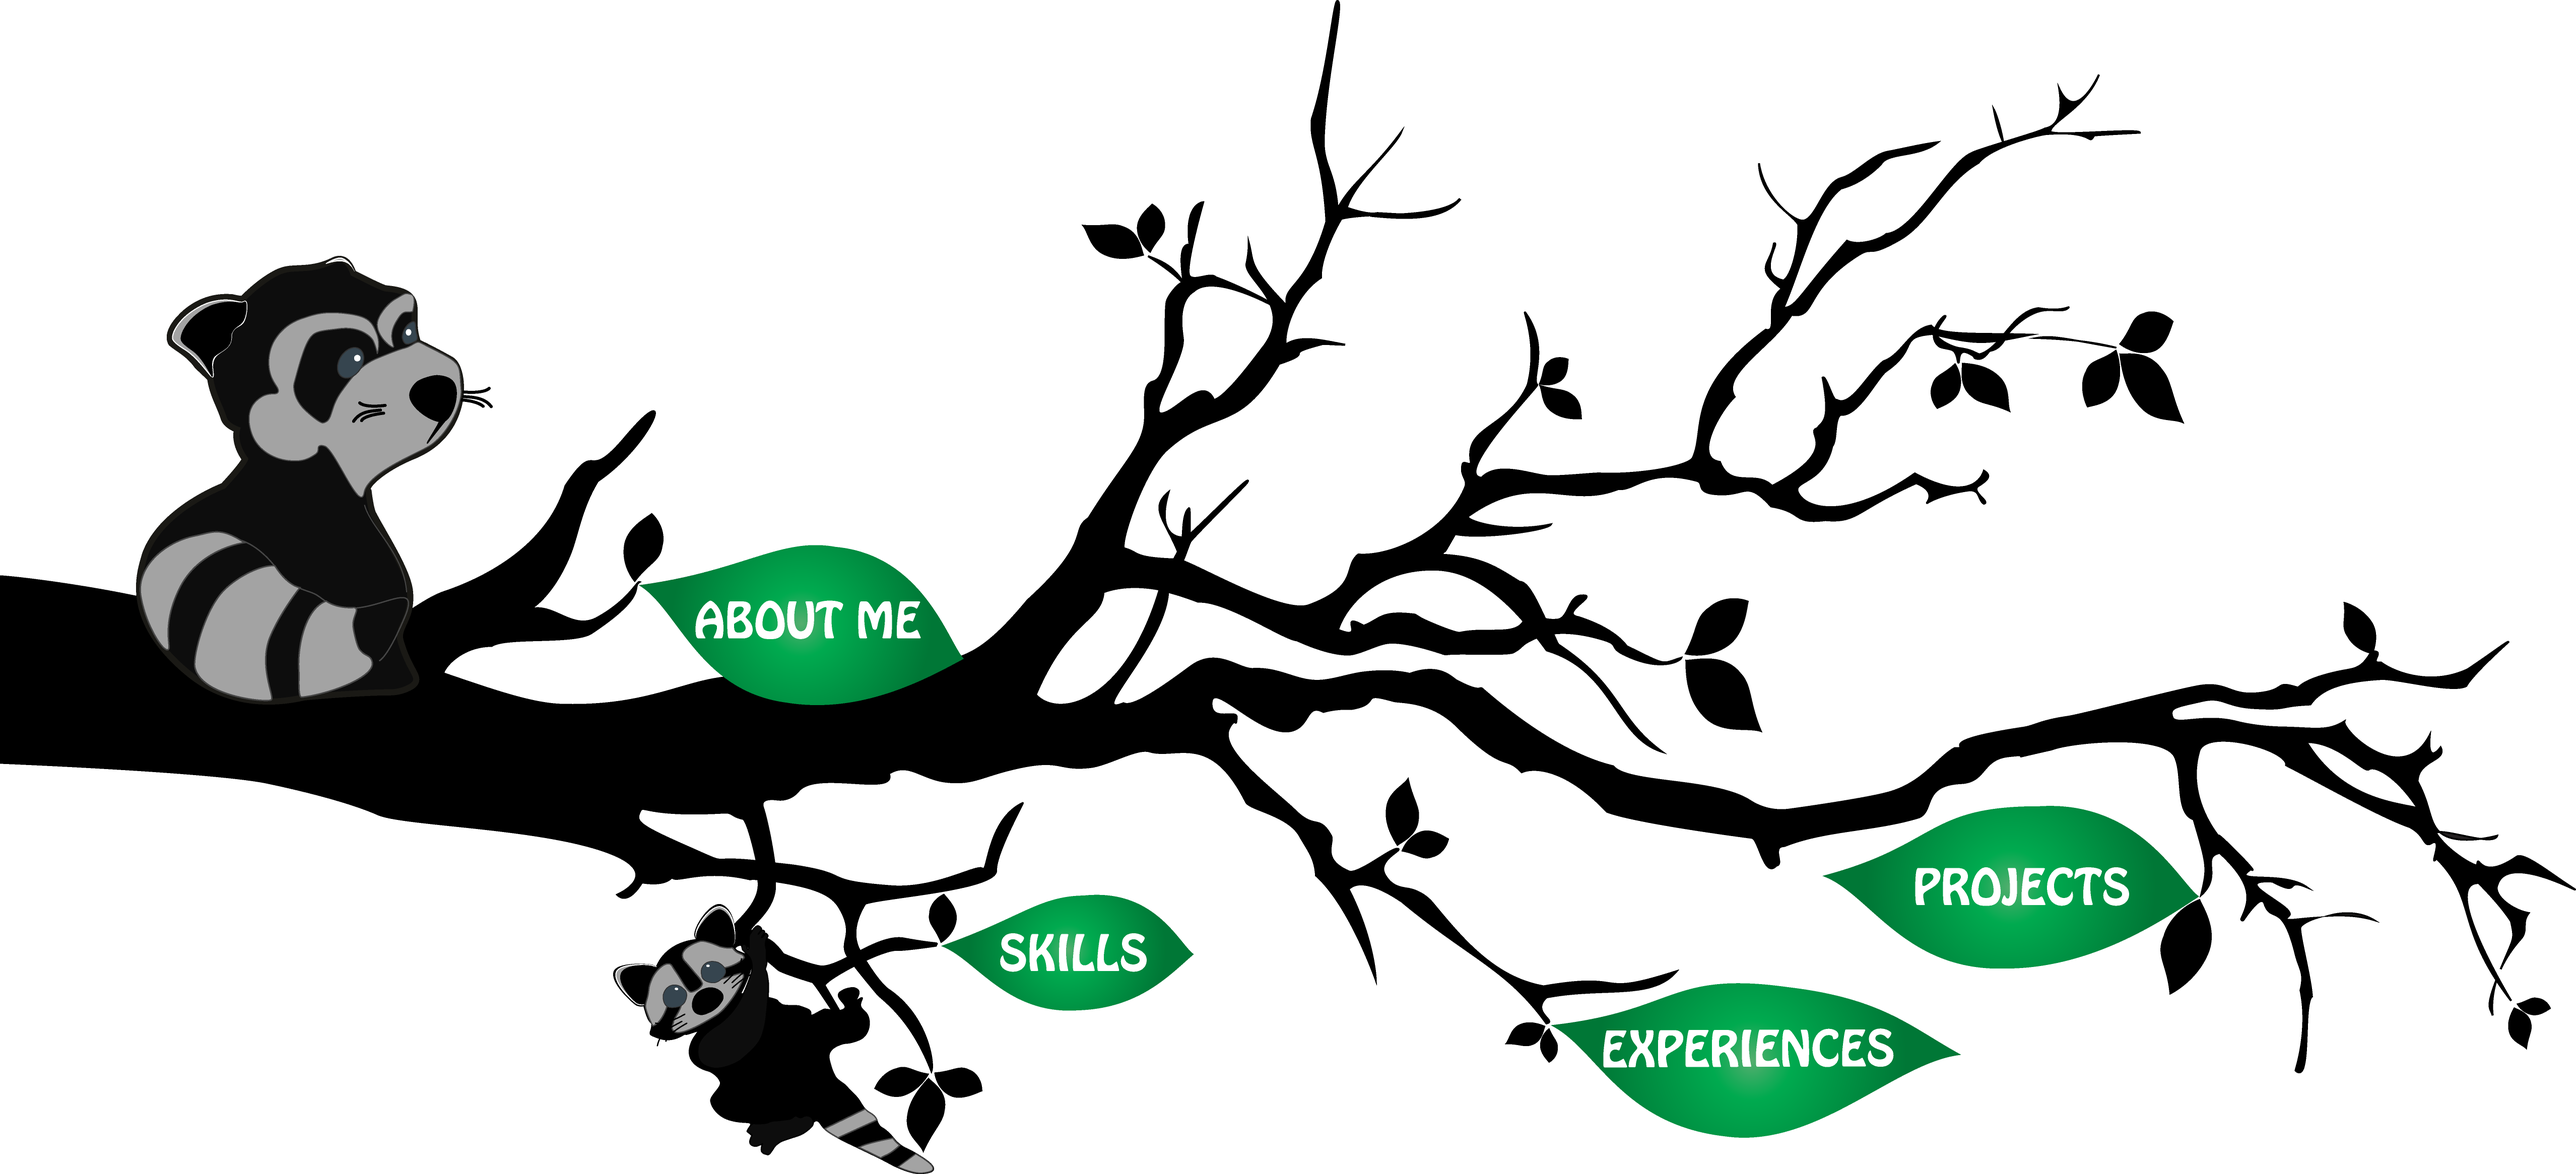
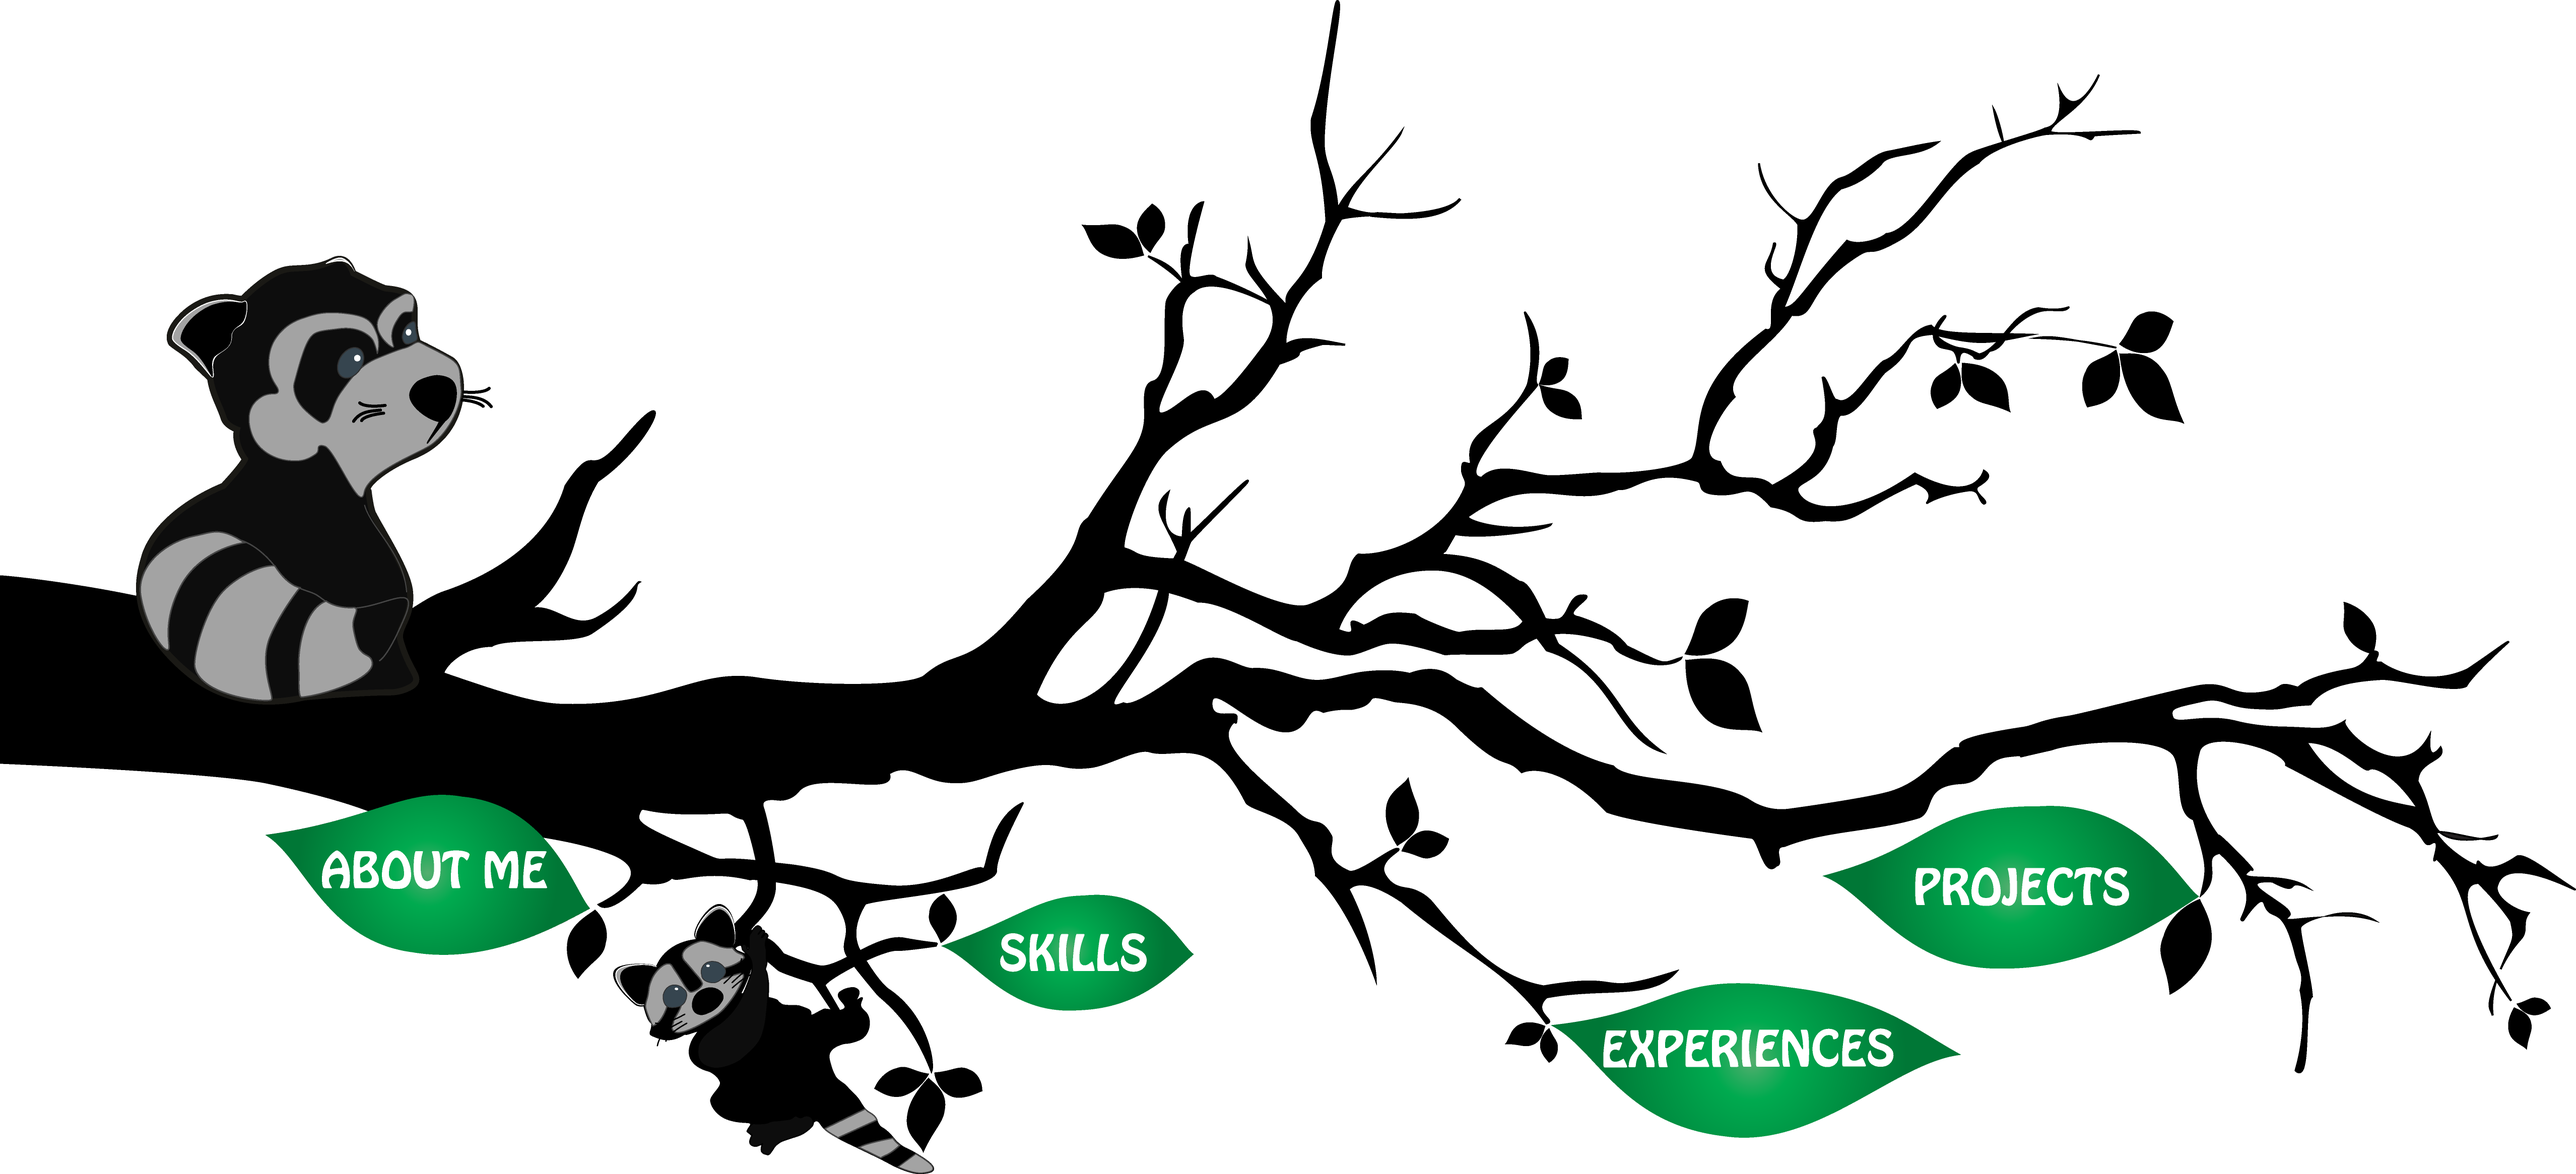
added top button and adjusted nav

Changed region(s): [[0.2177, 0.4324, 0.3732, 0.6178], [0.0933, 0.6795, 0.2488, 0.834]]

diff --git a/index.html b/index.html
@@ -15,17 +15,17 @@
             <h5>[Cha Yeon | 자연]</h5>
             <br>
             <h3>Self-Taught<br>Front-End Developer</h3>
+            <div class="nav">
+                <img src=TreeNavgB.png alt="navbar" usemap="#TreeNav">
+                <!-- <map id="TreeNav" name="TreeNav">
+                <area shape ="poly" coords="" href="#AboutMe">
+                <area shape ="poly" coords="" href="#Skills">
+                <area shape ="poly" coords="" href="#Experiences">
+                <area shape ="poly" coords="" href="#Projects">
+                </map> -->
+            </div>
         </div>
     </header>
-    <nav>
-        <img src=TreeNavgB.png alt="navbar" usemap="#TreeNav">
-        <map id="TreeNav" name="TreeNav">
-            <area shape ="poly" coords="" href="#AboutMe">
-            <area shape ="poly" coords="" href="#Skills">
-            <area shape ="poly" coords="" href="#Experiences">
-            <area shape ="poly" coords="" href="#Projects">
-        </map>
-    </nav>
     <main>
         <div class="container">
             <div id="AboutMe" class="content">
@@ -113,6 +113,12 @@
                 </div>
             </div>
         </div>
+        <div class="topbtn">
+            <button onclick="topFunction()" id="RCTop" title="Go to top">
+            <img src="rctopbtn.png" alt="Top Button" class="rctop">
+            </button>
+        </div>
     </main>
+    <script src="script.js"></script>
 </body>
 </html>

diff --git a/nav.css b/nav.css
@@ -1,21 +1,36 @@
-nav{
-    position: fixed;
+.nav{
+    width: 100%;
+    position: absolute;
     z-index: 1;
-    overflow: hidden;
-    bottom:-200px;
+    bottom: -240px;
+    left: -20px;
 }
-nav  img{
-    width:100%;
-    opacity: 0.8;
+.nav img{
+    width:105%;
 }
 
 /* For smaller screen */
 @media only screen and (max-width: 768px){
     nav{
-        position: fixed;
+        /* position: fixed; */
         z-index: 1;
         overflow: hidden;
         bottom:-100px;
     }
 
+}
+#RCTop{
+    display: none;
+    position: fixed;
+    bottom: 5px;
+    right: 15px;
+    z-index: 99;
+    cursor: pointer;
+    width: 100px;
+    height: 110px;
+    border: none;
+    background-color: #cdcecb;
+}
+.rctop{
+    width: 100%;
 }

diff --git a/script.js b/script.js
@@ -1,0 +1,19 @@
+//Get the button
+var mybutton = document.getElementById("RCTop");
+
+// When the user scrolls down 20px from the top of the document, show the button
+window.onscroll = function() {scrollFunction()};
+
+function scrollFunction() {
+  if (document.body.scrollTop > 20 || document.documentElement.scrollTop > 20) {
+    mybutton.style.display = "block";
+  } else {
+    mybutton.style.display = "none";
+  }
+}
+
+// When the user clicks on the button, scroll to the top of the document
+function topFunction() {
+  document.body.scrollTop = 0;
+  document.documentElement.scrollTop = 0;
+}

diff --git a/style.css b/style.css
@@ -28,7 +28,8 @@ main{
     margin: auto;
     font-size: 2.5em;
     text-align: center;
-    padding: 80px 30px 200px 30px;
+    padding: 80px 30px 350px 30px;
+    position: relative;
 }
 .container-header h3{
     color: #98e3ff;
@@ -40,6 +41,7 @@ main{
 }
 .content{
     margin: 30px;
+    margin-top: 160px;
     border-radius: 5px;
     background-color: #c3e4f7;
 }
@@ -100,4 +102,6 @@ ul{
 }
 
 /* For smaller screen */
-@media only screen and (max-width: 768px)
+@media only screen and (max-width: 768px){
+    
+}
